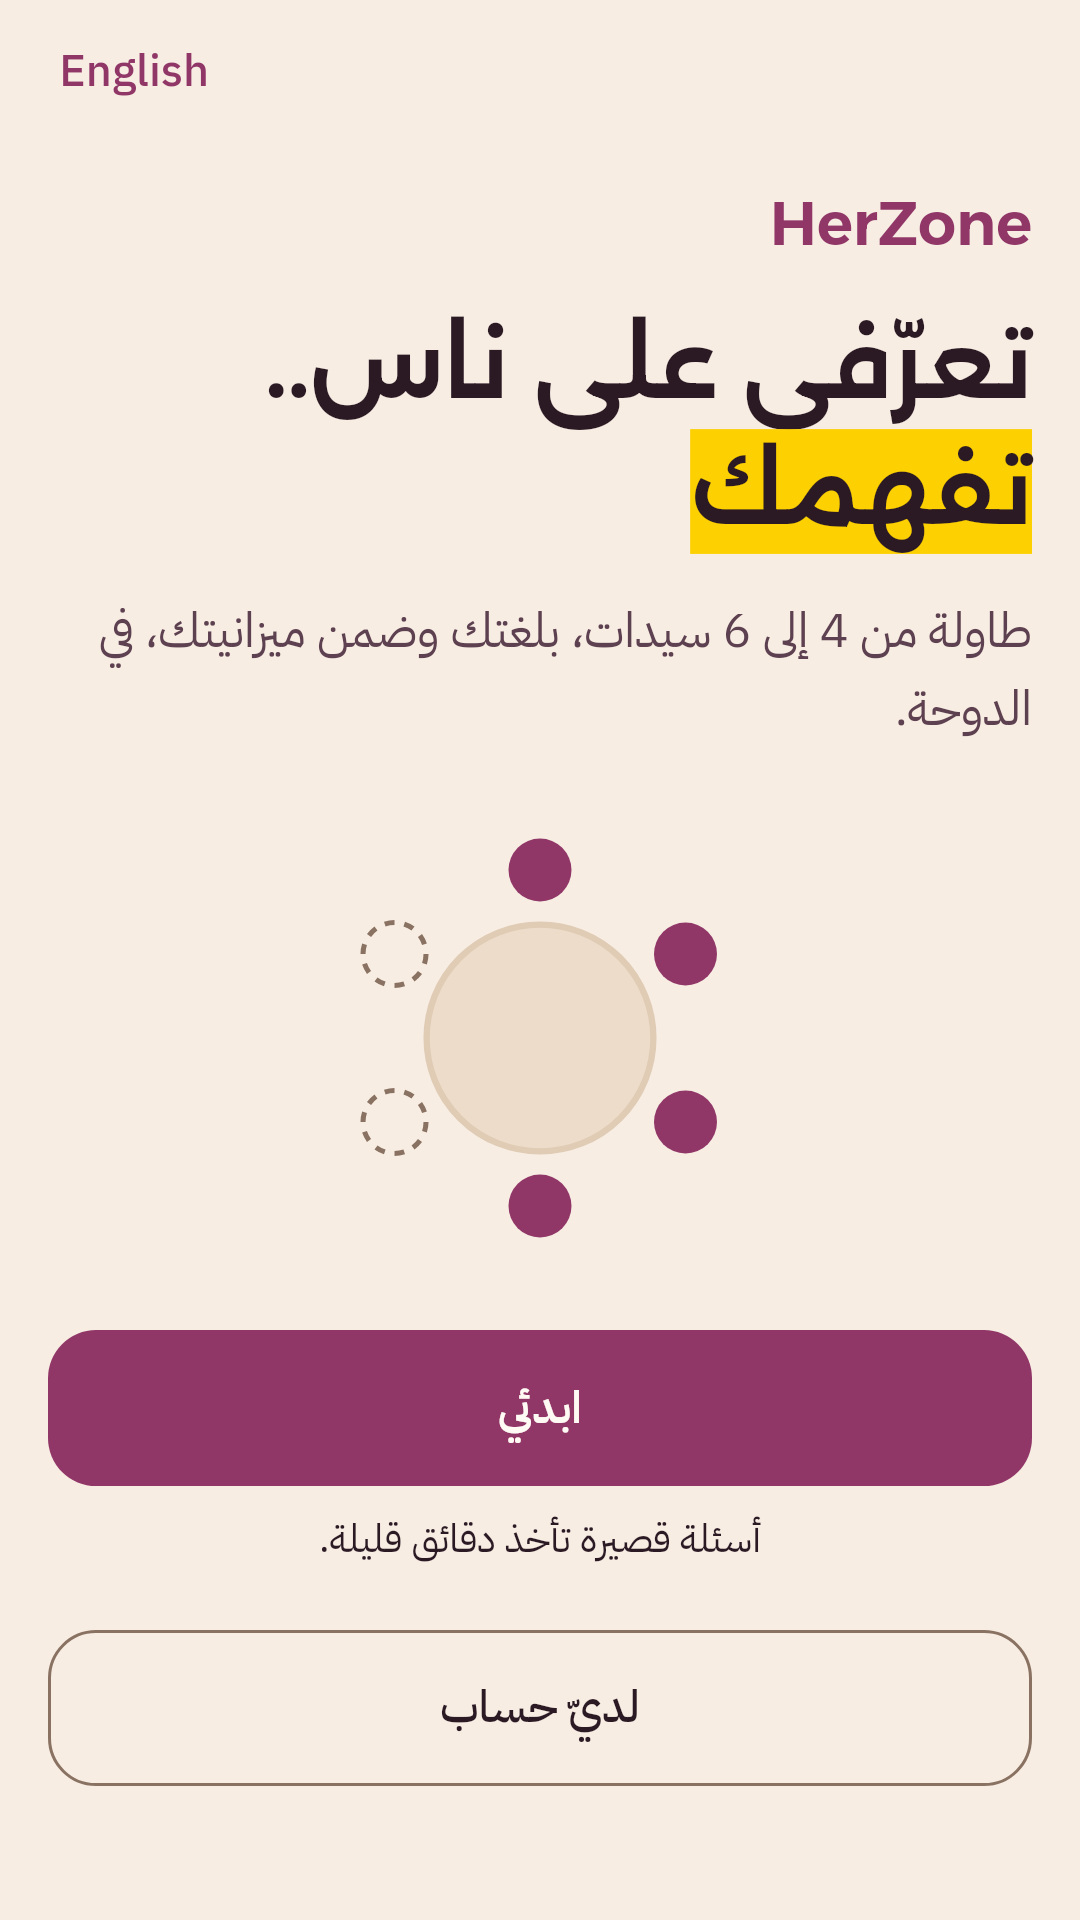
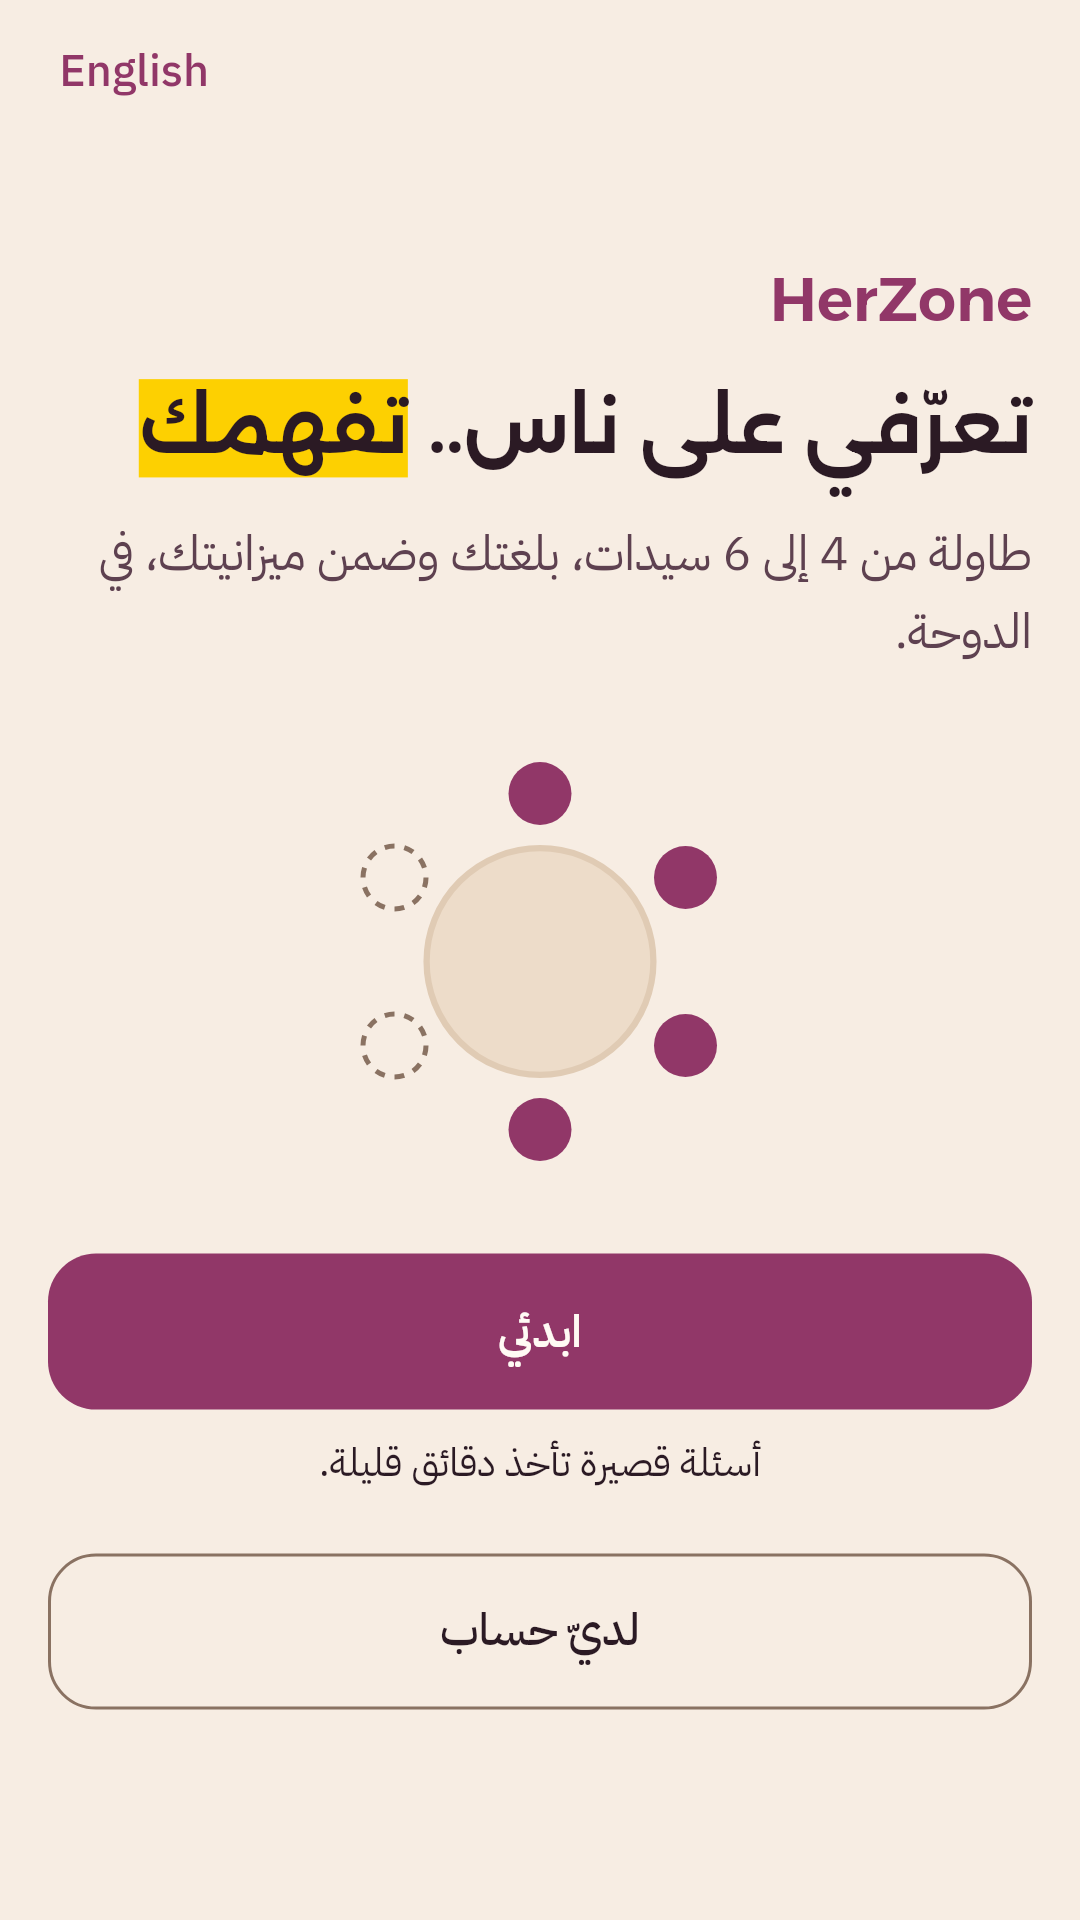
The Arabic welcome line reads as one line
At the full 32 px it needs 397 px and the narrowest phone gives the heading
328, so it broke in two. For Arabic the size now follows the width — 7% of it,
capped at 31.2 — on the website, on the public page and in the app alike.
Measured, not guessed: one line at 320, 360, 390, 402 and 430 px and on a
desktop, in the app shell and on /about. The cap is 1.95u rather than 2u
because /about gives the line 397 px where the full size wants 397.5.

English keeps its size and its two lines: it is a different sentence, and
fitting it would have meant shrinking it much further.

A new app test asserts one line at five widths with the real fonts, so a later
wording change cannot quietly bring the break back.

Claude-Session: https://claude.ai/code/session_01FEXgDqNsHx3oP1pnWG1BkE

diff --git a/qatar/app/lib/ui/onboarding/welcome_screen.dart b/qatar/app/lib/ui/onboarding/welcome_screen.dart
@@ -23,17 +23,24 @@ class WelcomeScreen extends StatelessWidget {
     final hero = t.welcomeHero;
     final em = t.welcomeHeroEm;
     final at = hero.lastIndexOf(em);
-    final heroText = at < 0
-        ? Text(hero, style: tt.displaySmall)
-        : Text.rich(TextSpan(style: tt.displaySmall, children: [
-            TextSpan(text: hero.substring(0, at)),
-            TextSpan(text: em, style: TextStyle(color: c.onAccent, backgroundColor: c.accent)),
-            TextSpan(text: hero.substring(at + em.length)),
-          ]));
+    final arabic = Localizations.localeOf(context).languageCode == 'ar';
     return Scaffold(
       body: SafeArea(
         child: LayoutBuilder(
           builder: (context, box) {
+            // The Arabic welcome line reads as one line (owner, 12 Nov). At the full 32 pt it needs more width than a
+            // phone gives it, so on a narrow screen the size follows the width, exactly as the website does: 7% of the
+            // width, never above 31.2. English keeps its size and its two lines — it is a different sentence.
+            final heroStyle = arabic
+                ? tt.displaySmall?.copyWith(fontSize: (box.maxWidth * 0.07).clamp(18.0, 31.2))
+                : tt.displaySmall;
+            final heroText = at < 0
+                ? Text(hero, style: heroStyle)
+                : Text.rich(TextSpan(style: heroStyle, children: [
+                    TextSpan(text: hero.substring(0, at)),
+                    TextSpan(text: em, style: TextStyle(color: c.onAccent, backgroundColor: c.accent)),
+                    TextSpan(text: hero.substring(at + em.length)),
+                  ]));
             // The screen read too long on a tall phone (owner, 11 Nov): two free-growing gaps left a hole above and
             // below the table. Now the gaps are small and fixed, and the whole block is centred in whatever height the
             // phone gives it, so the spare height becomes an even margin instead of a hole. On a short phone, or with

diff --git a/qatar/app/test/booking_ui_test.dart b/qatar/app/test/booking_ui_test.dart
@@ -92,6 +92,29 @@ void main() {
 
   // The time row gained "GMT+3" (28), so it is checked at the four phone widths with the real fonts, in both
   // languages and both themes: an overflow fails the test.
+  // The Arabic welcome line must read as one line at every phone width (owner, 12 Nov), with the real fonts.
+  group('the welcome headline is one line in Arabic', () {
+    setUpAll(loadFonts);
+    for (final width in [320.0, 360.0, 390.0, 402.0, 430.0]) {
+      testWidgets('${width.toInt()} px', (tester) async {
+        tester.view.physicalSize = Size(width * 3, 900 * 3);
+        tester.view.devicePixelRatio = 3;
+        addTearDown(tester.view.reset);
+        await tester.pumpWidget(HerZoneApp(config: config, tokens: MemoryTokenStore(), trips: MemoryTripStore(), quizStore: QuizStore.memory(), httpClientFactory: () => fakeApi([])));
+        await tester.pumpAndSettle();
+        final rich = tester.widget<RichText>(find.descendant(of: find.byType(Scaffold), matching: find.byType(RichText))
+            .evaluate()
+            .map((e) => find.byWidget(e.widget))
+            .firstWhere((f) => (tester.widget<RichText>(f).text.toPlainText()).contains('تعرّفي على ناس')));
+        expect(rich.text.toPlainText(), contains('تفهمك'));
+        final p = rich.text as TextSpan;
+        final tp = TextPainter(text: p, textDirection: TextDirection.rtl, textScaler: MediaQuery.textScalerOf(tester.element(find.byType(Scaffold))));
+        tp.layout(maxWidth: width - 32);
+        expect(tp.computeLineMetrics().length, 1, reason: 'the headline wraps at ${width.toInt()} px');
+      });
+    }
+  });
+
   group('layout with the real fonts', () {
     setUpAll(loadFonts);
     for (final width in [360.0, 390.0, 402.0, 430.0]) {

diff --git a/qatar/web/styles.css b/qatar/web/styles.css
@@ -488,6 +488,10 @@ a.option { text-decoration: none; color: inherit; }
 .hero-welcome { display: grid; gap: var(--s-4); padding-block: var(--s-4) var(--s-2); }
 .hero-welcome h1 { font-family: var(--font-display); font-weight: 600; font-size: min(calc(var(--u) * 2.0000), 11vw); line-height: 1.3; margin: 0; }
 :root[lang="en"] .hero-welcome h1 { font-size: min(calc(var(--u) * 2.0000), 11vw); line-height: 1.15; }
+/* The Arabic welcome line reads as one line (owner, 12 Nov). It needs 397.5px at the full 32px, and the narrowest
+   phone gives the heading 328px, so on a phone the size follows the viewport instead: 7.1vw fits at 360, 390, 402 and
+   430 px with room to spare, and the 32px cap takes over as soon as the screen is wide enough to hold the line. */
+:root[lang="ar"] .hero-welcome h1, :root[lang="ar"] .about-hero h1 { font-size: min(calc(var(--u) * 1.9500), 7vw); }
 /* The emphasised word in the welcome heading sits on the owner's yellow with dark ink (owner, 11 Nov). It is the one
    place yellow is used, and only ever as a fill: as text on a light field it measures 1.34:1. Defined here, not in
    about.css, so the welcome line reads the same on the app shell and on the public page. */
